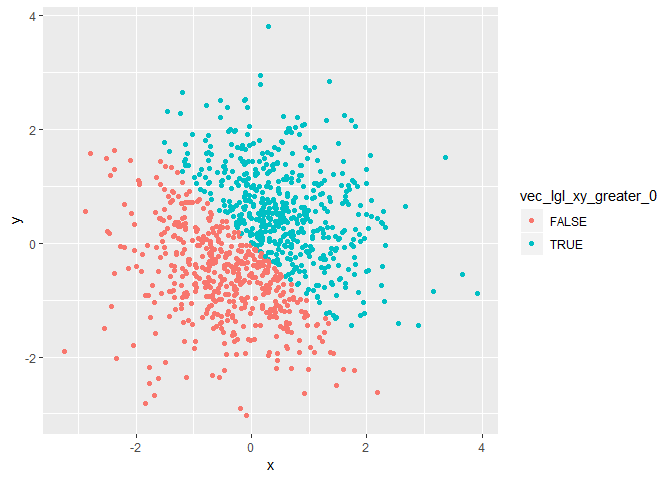
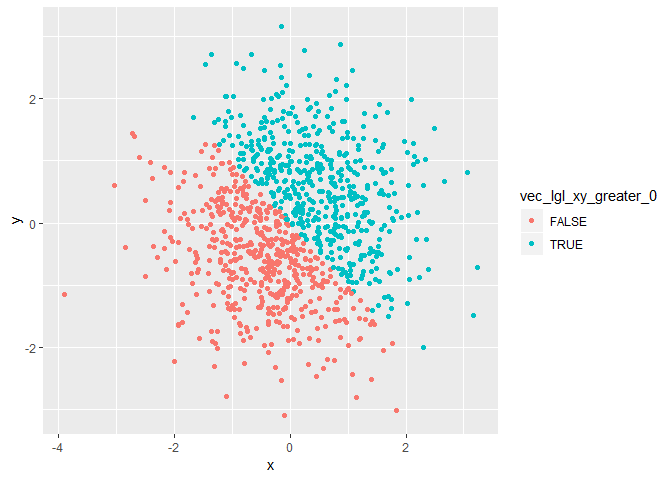
made some change to the description of color range.

diff --git a/markdown_files/p8105_hw1_hh2767.md b/markdown_files/p8105_hw1_hh2767.md
@@ -25,16 +25,16 @@ The data frame is as below:
     ## # A tibble: 10 x 4
     ##    vec_unif vec_lgl_greater_2 vec_char vec_factor
     ##       <dbl> <lgl>             <chr>    <fct>     
-    ##  1   3.38   TRUE              I        male      
-    ##  2   1.72   FALSE             am       female    
-    ##  3   1.88   FALSE             doing    male      
-    ##  4   2.30   TRUE              my       female    
-    ##  5   0.302  FALSE             second   male      
-    ##  6   3.18   TRUE              hw       male      
-    ##  7   3.11   TRUE              of       female    
-    ##  8   0.0668 FALSE             p8015    male      
-    ##  9   1.35   FALSE             data     female    
-    ## 10   3.36   TRUE              science  male
+    ##  1    2.75  TRUE              I        male      
+    ##  2    3.33  TRUE              am       female    
+    ##  3    2.70  TRUE              doing    male      
+    ##  4    3.20  TRUE              my       female    
+    ##  5    3.46  TRUE              second   male      
+    ##  6    0.972 FALSE             hw       male      
+    ##  7    0.574 FALSE             of       female    
+    ##  8    4.44  TRUE              p8015    male      
+    ##  9    0.363 FALSE             data     female    
+    ## 10    3.20  TRUE              science  male
 
 Take the mean of each variable in the data frame
 ------------------------------------------------
@@ -46,7 +46,7 @@ mean_vec_unif = mean(problem1_df$vec_unif)
 mean_vec_lgl_greater_2 = mean(problem1_df$vec_lgl_greater_2)
 ```
 
-The mean of "vec\_unif" variable is 2.0659213, and the mean of "vec\_lgl\_greater\_2" variable is 0.5. The mean of "vec\_unif" is directly calculated, while the mean of "vec\_lgl\_greater\_2" was calculated by treating "TRUE" as numerical "1", and "FALSE" as numerical "2". The mean of "vec\_char" and "vec\_factor" cannot be calculated, because they are neither numerical value nor lgl value, and if we calculate the mean of them, the outputs will be displayed as NAs.
+The mean of "vec\_unif" variable is 2.498537, and the mean of "vec\_lgl\_greater\_2" variable is 0.7. The mean of "vec\_unif" is directly calculated, while the mean of "vec\_lgl\_greater\_2" was calculated by treating "TRUE" as numerical "1", and "FALSE" as numerical "2". The mean of "vec\_char" and "vec\_factor" cannot be calculated, because they are neither numerical value nor lgl value, and if we calculate the mean of them, the outputs will be displayed as NAs.
 
 Convert variables from one type to another
 ------------------------------------------
@@ -75,16 +75,16 @@ The result is as below:
     ## # A tibble: 10 x 4
     ##    vec_unif vec_lgl_greater_2 vec_char vec_factor
     ##       <dbl> <lgl>                <dbl>      <dbl>
-    ##  1   3.38   TRUE                     5         NA
-    ##  2   1.72   FALSE                    1         NA
-    ##  3   1.88   FALSE                    3         NA
-    ##  4   2.30   TRUE                     6         NA
-    ##  5   0.302  FALSE                   10         NA
-    ##  6   3.18   TRUE                     4         NA
-    ##  7   3.11   TRUE                     7         NA
-    ##  8   0.0668 FALSE                    8         NA
-    ##  9   1.35   FALSE                    2         NA
-    ## 10   3.36   TRUE                     9         NA
+    ##  1    2.75  TRUE                     5         NA
+    ##  2    3.33  TRUE                     1         NA
+    ##  3    2.70  TRUE                     3         NA
+    ##  4    3.20  TRUE                     6         NA
+    ##  5    3.46  TRUE                    10         NA
+    ##  6    0.972 FALSE                    4         NA
+    ##  7    0.574 FALSE                    7         NA
+    ##  8    4.44  TRUE                     8         NA
+    ##  9    0.363 FALSE                    2         NA
+    ## 10    3.20  TRUE                     9         NA
 
 Therefore, we can successfully convert character to factor to numeric, but we cannot convert factor to character to numeric, because NAs are introduced by coercion when converting character to numeric.
 
@@ -108,21 +108,21 @@ problem2_df
 ```
 
     ## # A tibble: 1,000 x 5
-    ##         x       y vec_lgl_xy_greater_0 vec_lgl_to_num vec_lgl_to_fact
-    ##     <dbl>   <dbl> <lgl>                         <dbl> <fct>          
-    ##  1 -0.534 -0.724  FALSE                             0 FALSE          
-    ##  2  0.276  0.542  TRUE                              1 TRUE           
-    ##  3 -1.03   0.716  FALSE                             0 FALSE          
-    ##  4  1.62   0.227  TRUE                              1 TRUE           
-    ##  5  0.113 -0.432  FALSE                             0 FALSE          
-    ##  6  0.149 -1.45   FALSE                             0 FALSE          
-    ##  7  0.209 -0.903  FALSE                             0 FALSE          
-    ##  8 -1.23   2.27   TRUE                              1 TRUE           
-    ##  9  1.78   0.0664 TRUE                              1 TRUE           
-    ## 10  0.305 -1.31   FALSE                             0 FALSE          
+    ##          x       y vec_lgl_xy_greater_0 vec_lgl_to_num vec_lgl_to_fact
+    ##      <dbl>   <dbl> <lgl>                         <dbl> <fct>          
+    ##  1 -0.651   0.334  FALSE                             0 FALSE          
+    ##  2  0.0348 -0.280  FALSE                             0 FALSE          
+    ##  3 -1.93   -1.64   FALSE                             0 FALSE          
+    ##  4  1.02    0.593  TRUE                              1 TRUE           
+    ##  5  0.757  -0.0918 TRUE                              1 TRUE           
+    ##  6  0.792   0.198  TRUE                              1 TRUE           
+    ##  7  0.897  -0.751  TRUE                              1 TRUE           
+    ##  8  1.25   -0.844  TRUE                              1 TRUE           
+    ##  9 -0.263  -2.33   FALSE                             0 FALSE          
+    ## 10 -2.08    0.206  FALSE                             0 FALSE          
     ## # ... with 990 more rows
 
-The data frame is a 1000 \* 5 data set. The mean of x is 0.0444535, and the median of x is 0.0635866.The proportion of cases for which the logical vector is TRUE is 0.514.
+The data frame is a 1000 \* 5 data set. The mean of x is -0.0081137, and the median of x is -0.0524882.The proportion of cases for which the logical vector is TRUE is 0.5.
 
 Scatterplot colored in different ways
 -------------------------------------
@@ -151,4 +151,4 @@ ggplot(problem2_df, aes(x = x, y = y, color = vec_lgl_to_num)) + geom_point()
 ggplot(problem2_df, aes(x = x, y = y, color = vec_lgl_to_fact)) + geom_point()
 ```
 
-![](p8105_hw1_hh2767_files/figure-markdown_github/unnamed-chunk-11-1.png) As the plots show, when color points using logical or factor vectors, the color scale is two discrete values: TRUE or FALSE; when color points using numerical vector, the color scale is \[0,1\].
+![](p8105_hw1_hh2767_files/figure-markdown_github/unnamed-chunk-11-1.png) As the plots show, when color points using logical or factor vectors, the color scale is two colors: orange and green, which refer to TRUE and FALSE; when color points using numerical vector, the color can change from dark blue to light blue, and this color scale refers to the range \[0,1\].
